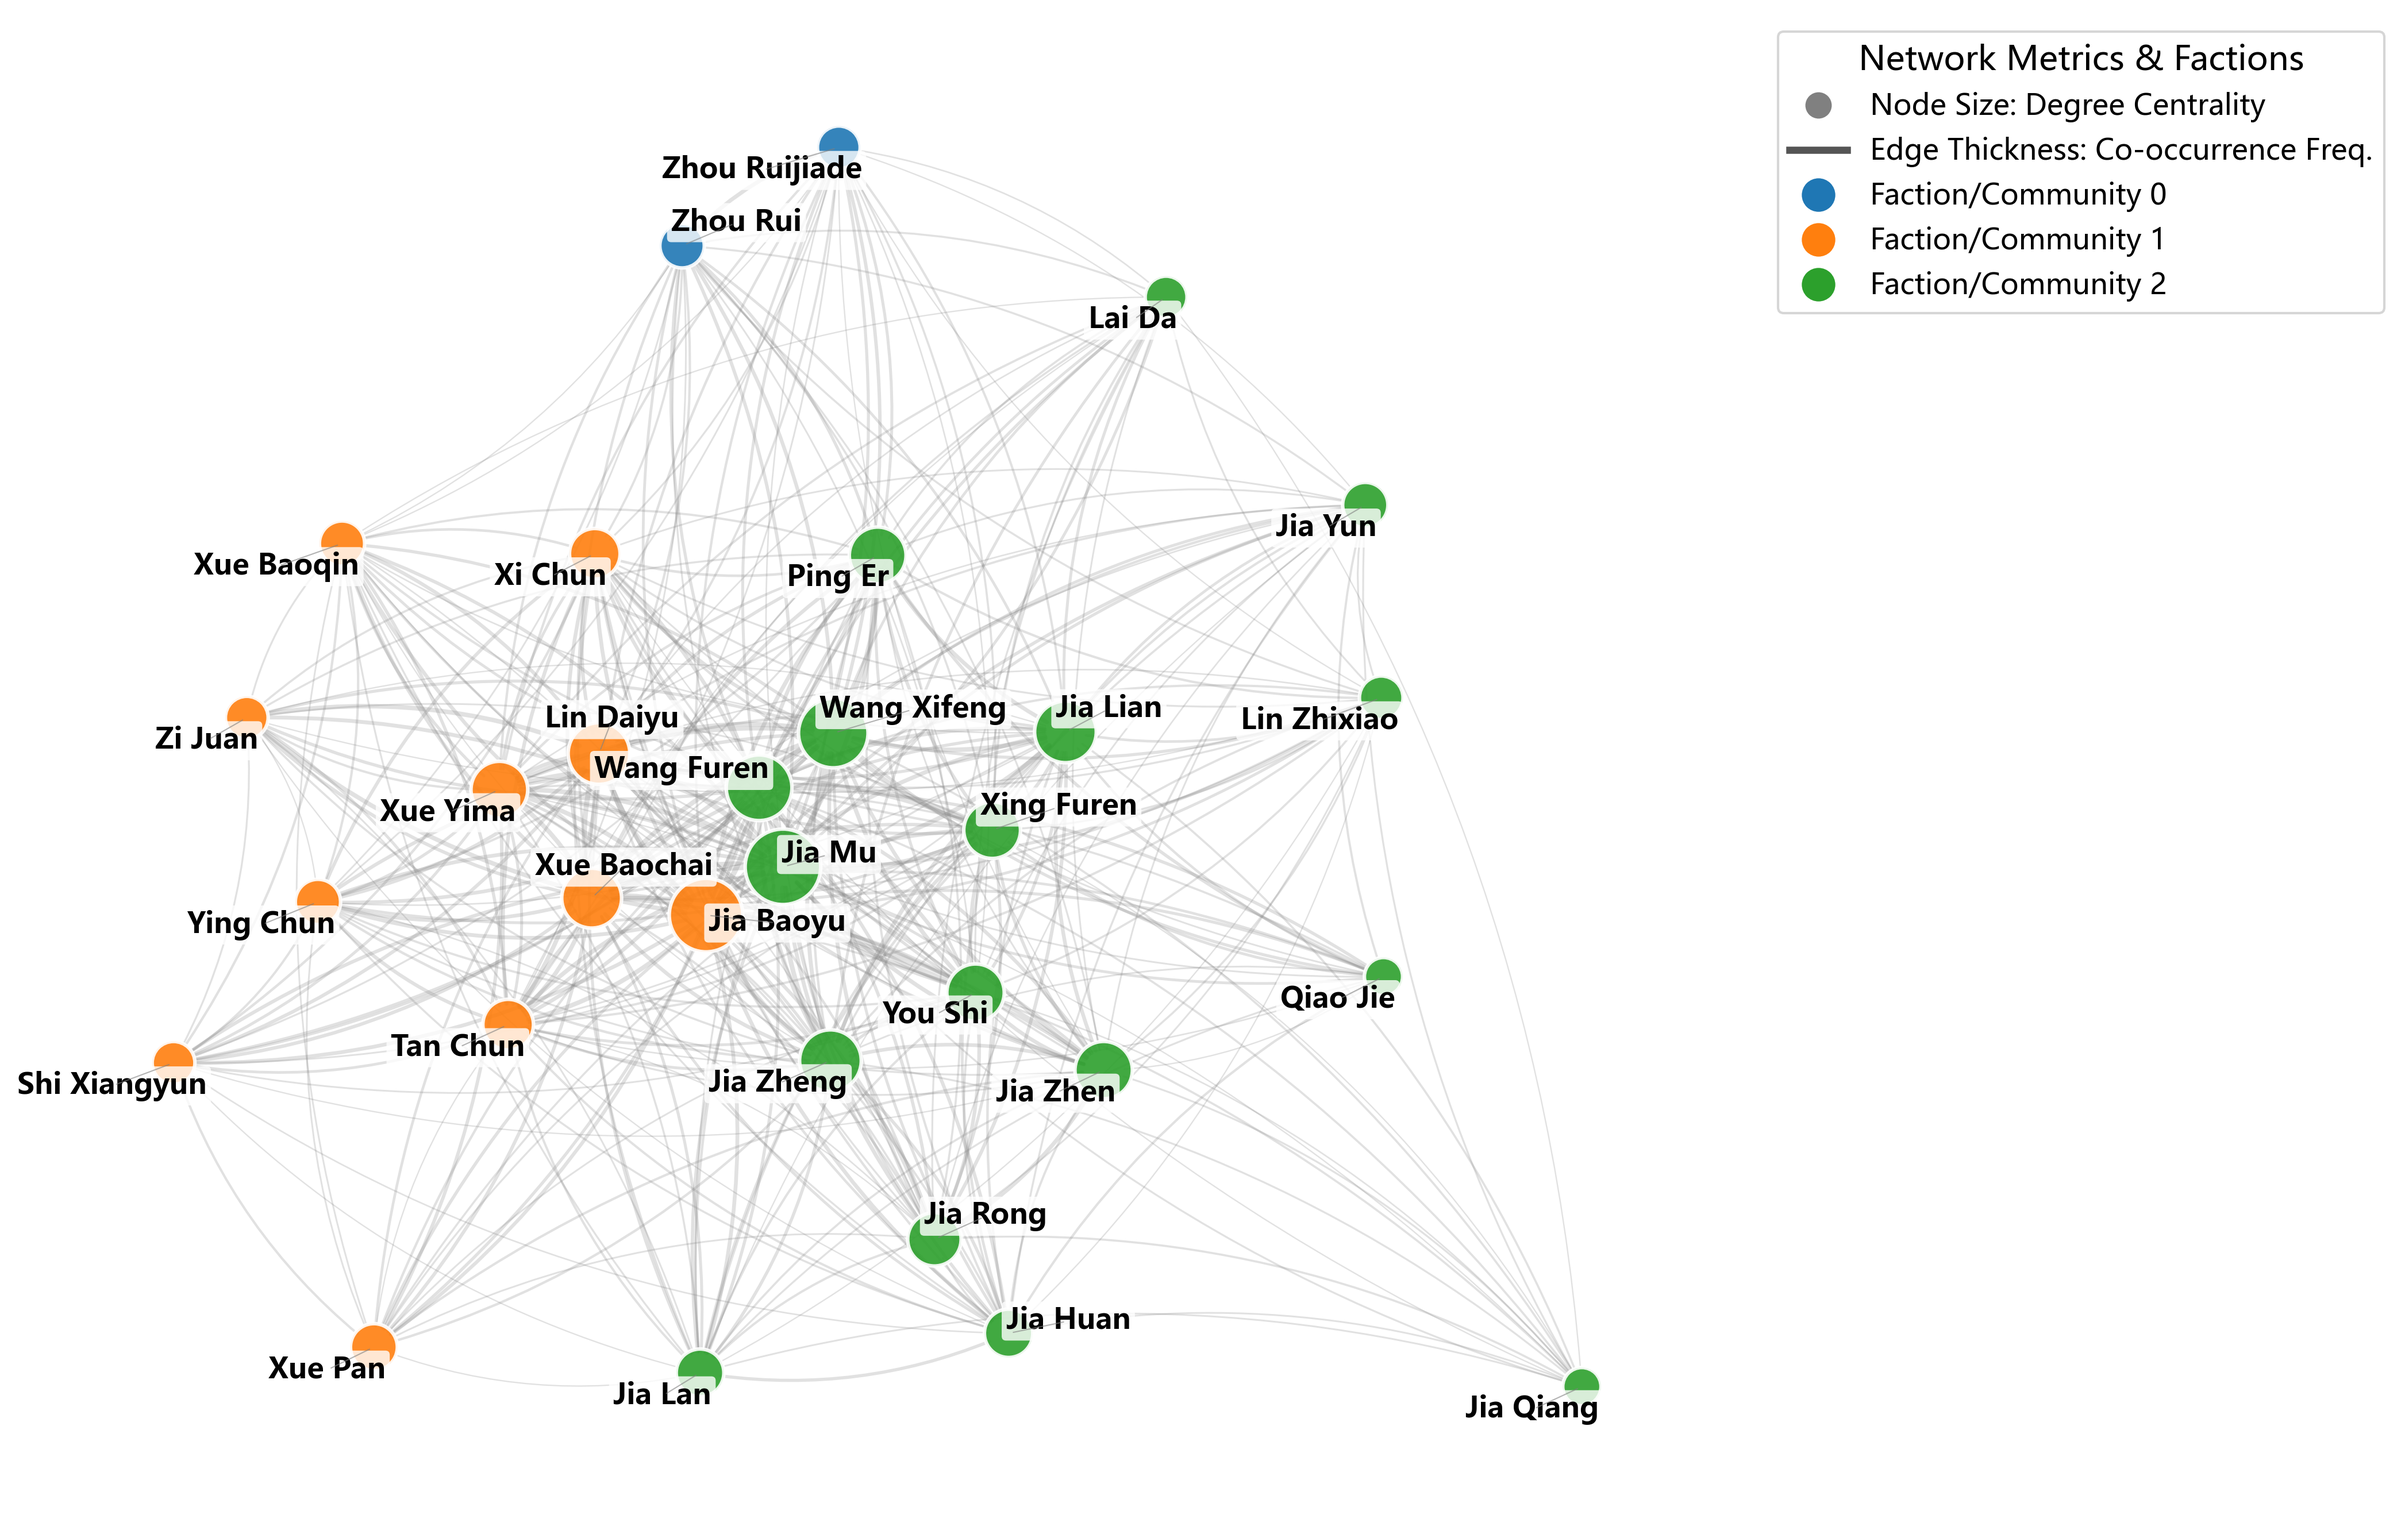
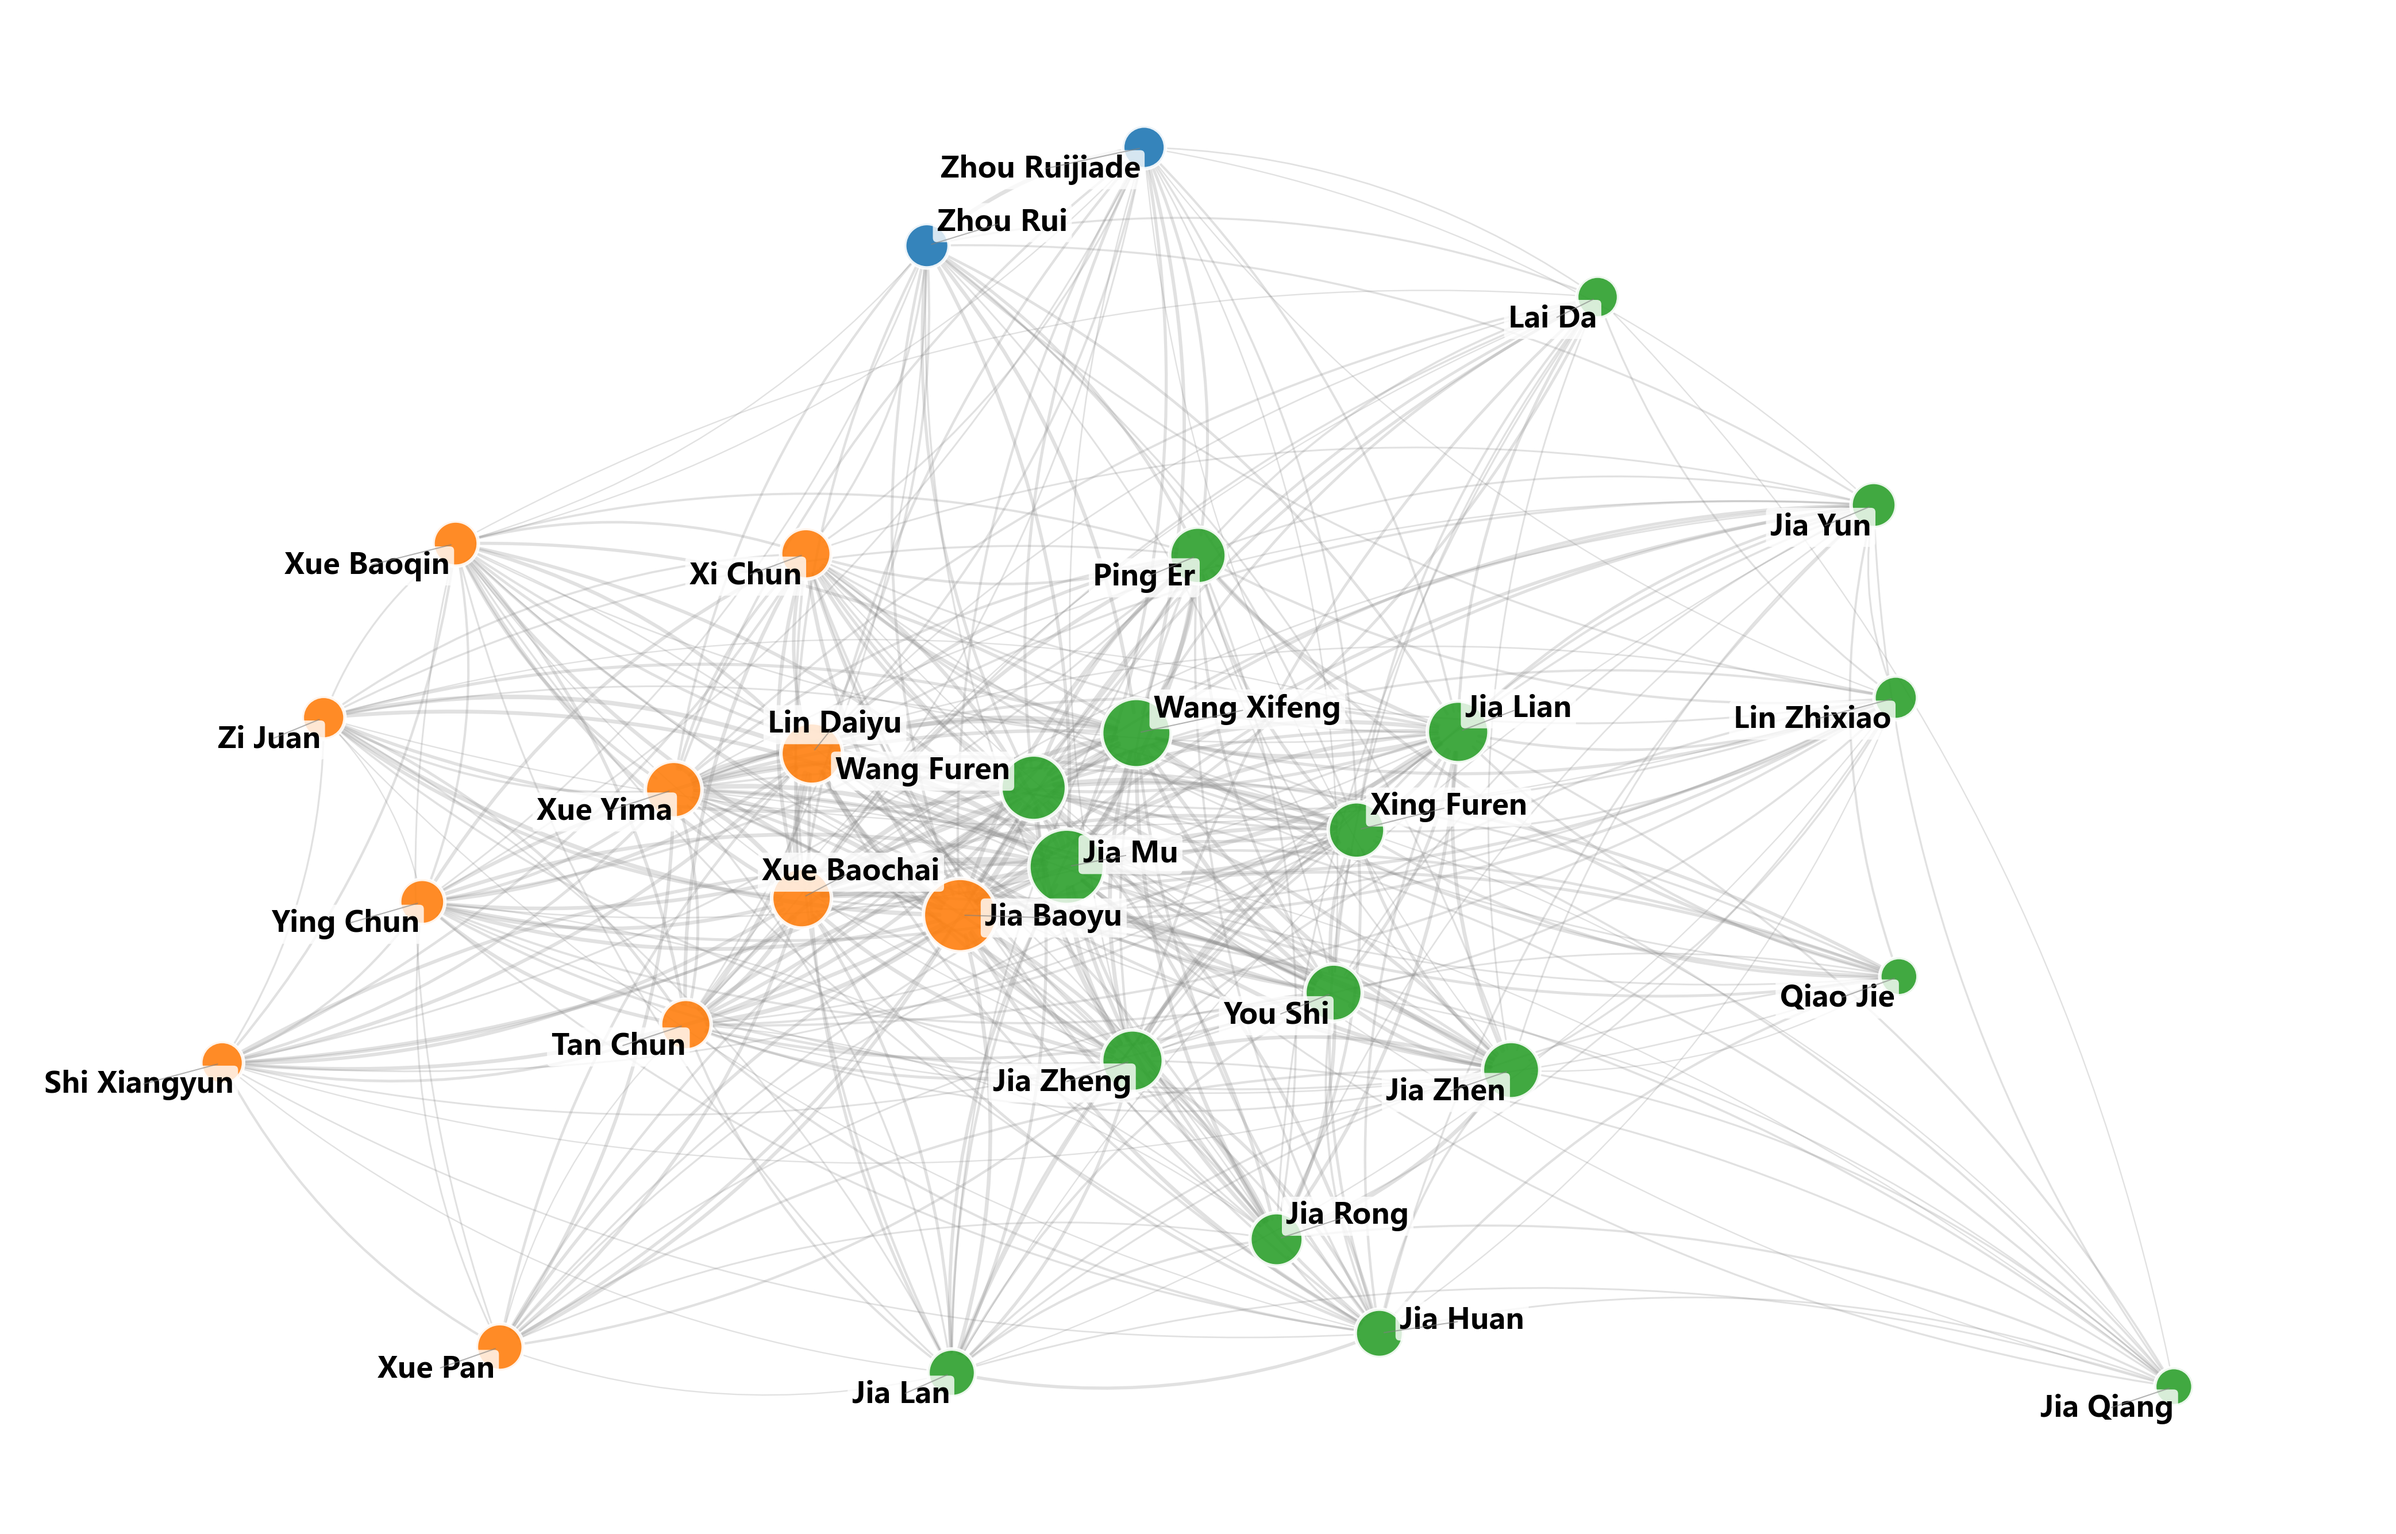
Remove legend from network graphs for clean publication layout

diff --git a/05b_generate_pngs.py b/05b_generate_pngs.py
@@ -113,19 +113,7 @@ for novel in novels:
                 force_text=(0.8, 0.8), force_points=(0.8, 0.8),
                 arrowprops=dict(arrowstyle="-", color='gray', lw=0.5, alpha=0.6))
     
-    legend_elements = [
-        Line2D([0], [0], marker='o', color='w', markerfacecolor='gray', markersize=12, label='Node Size: Degree Centrality'),
-        Line2D([0], [0], color='#555555', lw=3, label='Edge Thickness: Co-occurrence Freq.')
-    ]
-    
-    legend_elements += [Line2D([0], [0], marker='o', color='w', 
-                               markerfacecolor=cmap(i % 10), 
-                               markersize=15, label=f'Faction/Community {c}') 
-                        for i, c in enumerate(unique_comms)]
-                        
-    plt.legend(handles=legend_elements, loc='upper left', bbox_to_anchor=(1.02, 1), 
-               title="Network Metrics & Factions", fontsize=12, title_fontsize=14, frameon=True)
-    
+
     plt.axis('off')
     plt.tight_layout()
     
